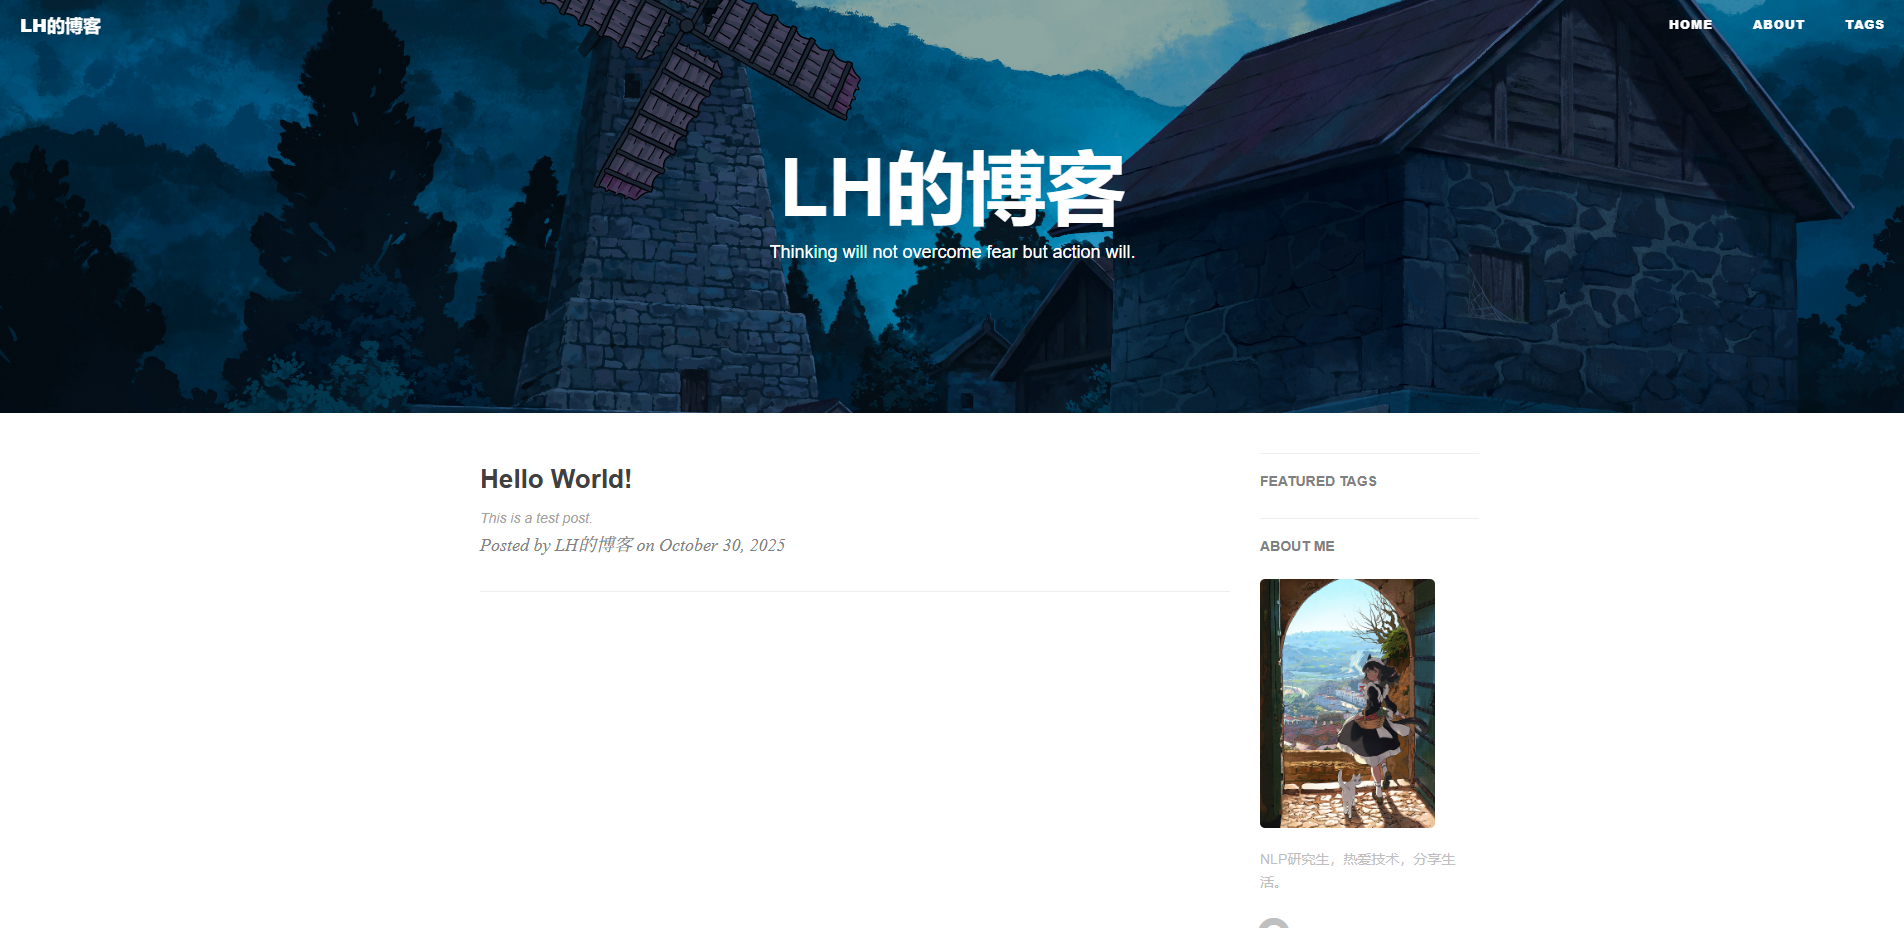
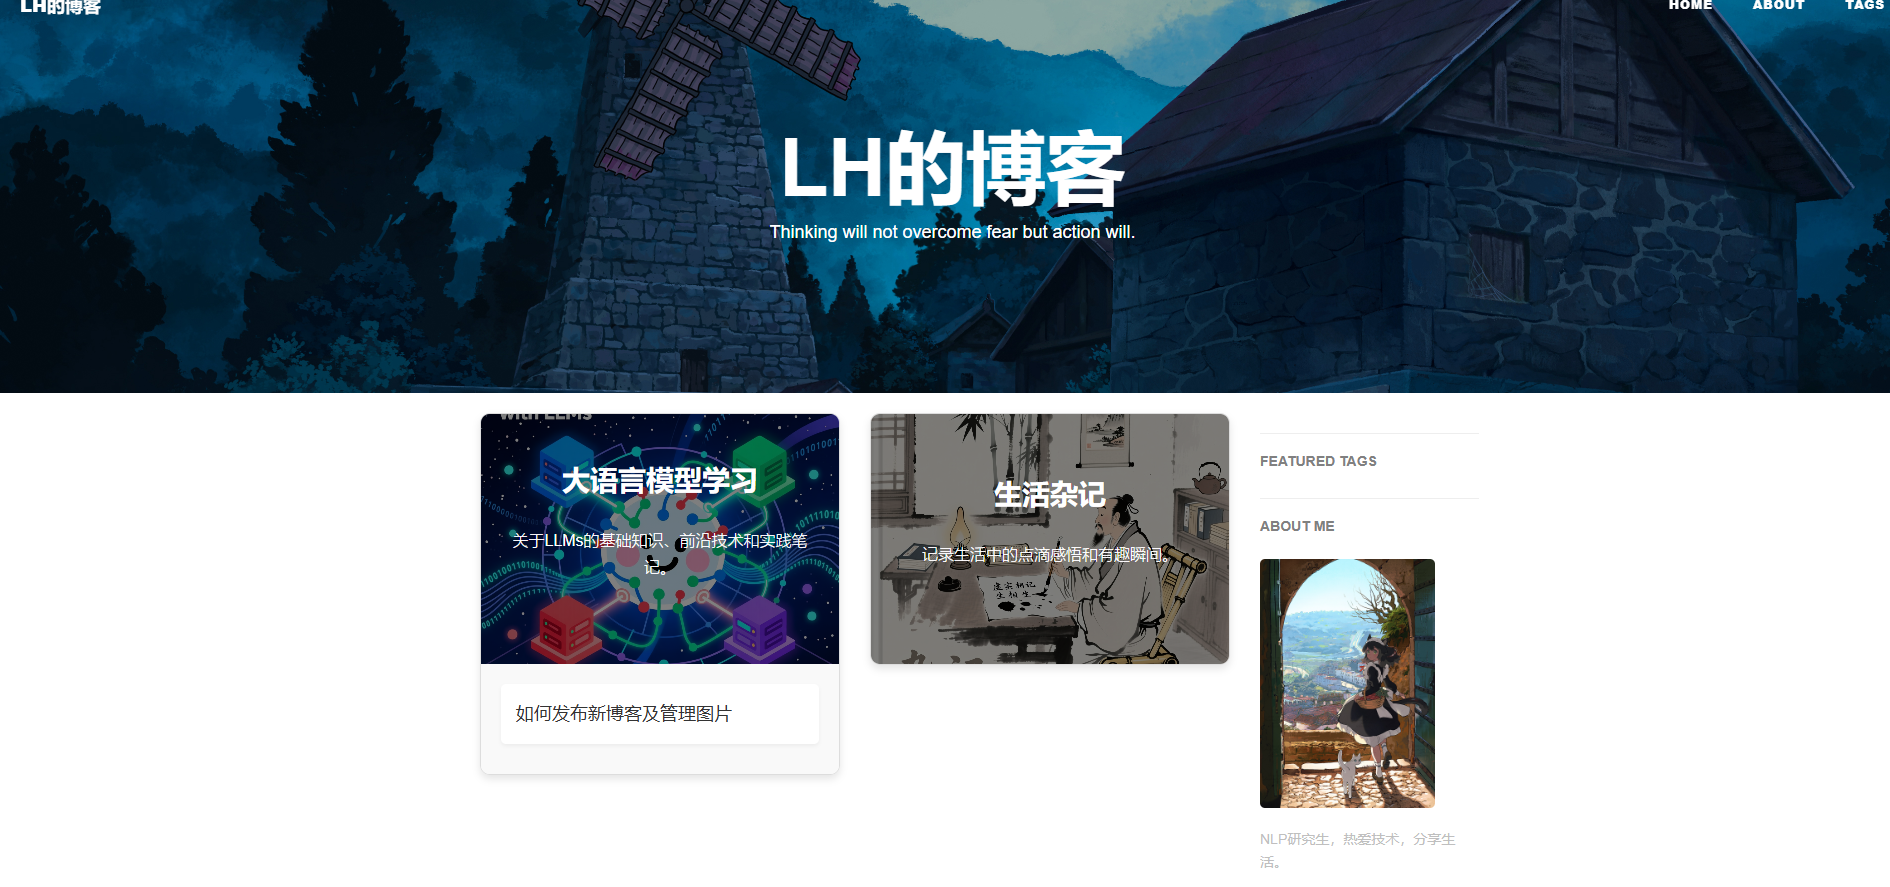
refactor: Remove unused images and update README

diff --git a/his.md b/his.md
@@ -21,5 +21,21 @@
   - **评论系统:**
     - **问题记录:** 发现并记录了 `Gitalk` 评论系统因未在 GitHub 上创建对应的 `OAuth App` 并正确配置 `Client ID` 和 `Client Secret`，导致出现 `redirect_uri` 相关的报错。
 
+2025年11月2日
+
+- **主页UI重构:**
+  - **目标:** 将主页的线性文章列表重构为“大卡片套小卡片”的模块化布局，以“主题”对文章进行分组展示。
+  - **实现方式:**
+    - 创建了 `_data/homepage_groups.yml` 数据文件，用于独立定义主页的卡片分组、标题、封面和包含的文章，实现了布局与内容的解耦。
+    - 重写了 `index.html`，使其通过读取上述数据文件来动态生成卡片布局。
+    - 使用 `CSS Flexbox` 进行两列布局，并编写 `jQuery` 脚本实现卡片的点击展开/折叠交互效果。
+  - **遇到的问题及解决:**
+    1.  **文章不显示:** 最初通过 `post.name` 匹配文章失败。后通过植入诊断代码，发现 `post.name` 变量在当前环境无效。最终改为通过 `post.path` 截取文件名进行匹配，成功解决。
+    2.  **卡片联动展开:** 最初的 `jQuery` 选择器不够精确，导致点击一个卡片会错误地影响其他卡片。最终改为通过 `data-target` 属性和唯一的 `ID` 进行点对点操作，彻底解决问题。
+    3.  **展开时布局错位:** 展开一个卡片时，同行未展开的卡片被拉伸出现空白。通过为 `Flexbox` 容器添加 `align-items: flex-start;` 样式，成功解决。
+  - **其他:**
+    - 在 `feature/homepage-redesign` 分支上完成了所有开发和修复工作。
+    - 移除了部分不再使用的、原主题自带的图片资源。
+
 - **参考链接:**
   - [博客搭建详细教程](https://github.com/qiubaiying/qiubaiying.github.io/wiki/博客搭建详细教程)
